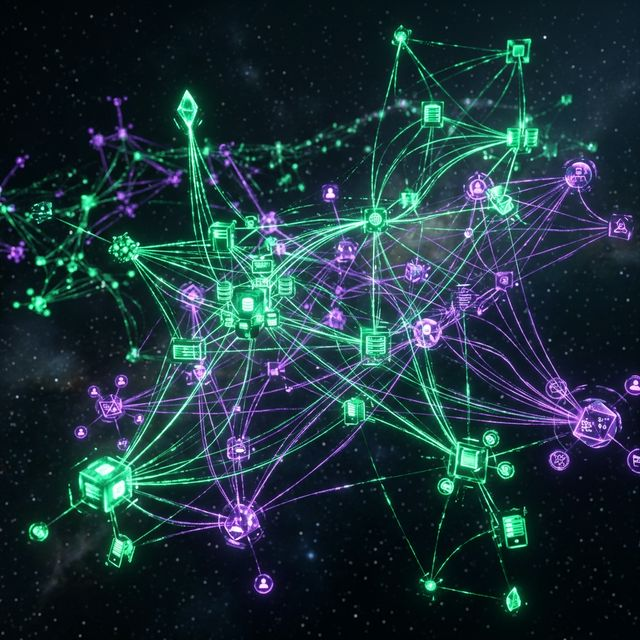
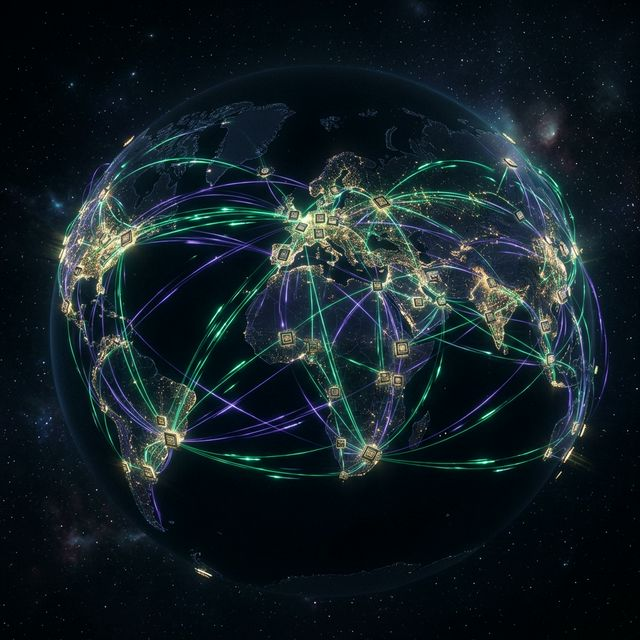
make the changes in the introduction section

diff --git a/docs/docs/intro/quickstart.md b/docs/docs/intro/quickstart.md
@@ -33,43 +33,41 @@ If you have a `.blend` file and want to use the network's decentralized GPUs to 
    Click the **"Client"** button on the top right of the navigation bar, and connect your Solana Phantom or Solflare wallet.
    *(Don't have a wallet? Read the [Wallet Setup Guide](./wallet-setup)).*
 
-2. **Contribute Funds:** 
-   You must have a minimum balance of computing credits (**RON**) to commission jobs. These act as the fuel for the network.
+2. **Fund your Account:** 
+   Ensure your account holds a sufficient balance of **RON** (Compute Credits). These credits are the economic fuel of every compute mission on the network.
 
-3. **Upload your Scene:** 
-   Navigate to the **Client Dashboard**, click "New Job." Here, you slice and encode your `.blend` file to our secure nodes. *(Read the [Job Management](../clients/job-management) guide to ensure your file is packed correctly).*
+3. **Submit your Mission:** 
+   Navigate to the **Management Portal** and create a new compute mission. The platform will stage your scene assets to the secure **Staging Fabric** and initialize the job allocation pipeline. *(Read the [Asset Preparation](../clients/scene-preparation) guide to ensure your project is correctly packaged).*
 
 4. **Retrieve Results:** 
-   Once the network consensus confirms your job is `COMPLETED`, the final mathematically-verified image will appear in your dashboard ready for download.
+   Once the network verifies your job has reached **FINALIZED** status, the completed frames become available for retrieval directly from your portal dashboard.
 
-<div style={{textAlign: 'center', margin: '30px 0'}}>
-  <img src="/img/artist-dashboard.png" alt="Artist Workflow" style={{borderRadius: '8px', border: '1px solid #10B981'}} />
-  <p style={{fontSize: '0.8rem', color: '#888'}}>*The RenderOnNodes Client Dashboard.*</p>
-</div>
+:::note[Screenshot Coming Soon]
+This section will include a screenshot of the live RenderOnNodes Management Portal. Please provide a screenshot of your dashboard so we can embed an accurate, up-to-date visual here.
+:::
 
   </TabItem>
   <TabItem value="provider" label="I want to Earn RON (Provider)">
 
 ### The Node Provider Journey
 
-If you have a Windows PC with an NVIDIA RTX or AMD Radeon GPU and want to earn tokens for processing other people's frames:
+If you have a Windows PC with an NVIDIA RTX or AMD Radeon GPU and want to earn tokens for processing other people's compute missions:
 
-1. **Download the Node Application:** 
-   Toggle the top navigation to **"Provider"**, and download the lightweight `BlendFarm.exe` desktop app.
+1. **Download the Execution Agent:** 
+   Toggle the top navigation to **"Provider"** and download the **RenderOnNodes Execution Agent** — a lightweight desktop application.
 
-2. **Link your Payout Address:** 
-   When you first open the app, you will be prompted to paste the public Solana address where you want to receive your earnings.
+2. **Link your Settlement Address:** 
+   When you first open the application, you will be prompted to connect your Solana wallet. This is the address where your earned **RON** will be automatically delivered.
 
-3. **Activate the Heartbeat:** 
-   Click **"Start Node"**. As long as `BlendFarm.exe` is running, it will constantly poll the network looking for incoming Artist jobs that match your exact hardware specifications.
+3. **Activate the Agent:** 
+   Click **"Start Agent"**. As long as the Execution Agent is running and your system passes performance validation, the network's **[Distribution Engine](../concepts/scheduler-and-queues)** will autonomously assign compute missions to your hardware.
 
-4. **Earn Tokens:** 
-   Once you process jobs and cross the Settlement Threshold (see [Settlement System](../concepts/settlement-system)), RON tokens are automatically airdropped into your wallet—gas free.
+4. **Earn Tokens Automatically:** 
+   Once your agent completes verified missions and crosses the **[Settlement Threshold](../concepts/settlement-system)**, RON tokens are automatically credited to your wallet — platform-managed, gas free.
 
-<div style={{textAlign: 'center', margin: '30px 0'}}>
-  <img src="/img/node-dashboard.png" alt="Provider Application" style={{borderRadius: '8px', border: '1px solid #8B5CF6'}} />
-  <p style={{fontSize: '0.8rem', color: '#888'}}>*The BlendFarm.exe Desktop Node Interface.*</p>
-</div>
+:::note[Screenshot Coming Soon]
+This section will include a screenshot of the live RenderOnNodes Node Agent interface. Please provide a screenshot of the agent running on your machine so we can embed an accurate, up-to-date visual here.
+:::
 
   </TabItem>
 </Tabs>

diff --git a/docs/docs/intro/what-is-renderonnodes.md b/docs/docs/intro/what-is-renderonnodes.md
@@ -23,16 +23,16 @@ These two realities create a massive economic inefficiency. **RenderOnNodes is b
 
 At its core, the platform operates a continuous matching engine:
 
-1. An **Artist** uploads a `.blend` scene file and specifies render requirements. The system locks the estimated job cost in escrow.
-2. The **Scheduler** evaluates all connected GPU nodes on the network and assigns the job to the best match based on hardware capability and trust score.
-3. The matched **Provider Node** downloads the file, executes the render in a sandboxed environment, and uploads the resulting frames.
-4. The **Escrow Contract** releases the payment to the Provider and delivers the completed frames to the Artist.
+1. A **Compute Client** stages their project assets to the platform's secure **Staging Fabric** and defines their compute parameters. The estimated cost in **RON** is immediately locked in escrow.
+2. The **Orchestration Layer** evaluates all connected Execution Agents on the network and dispatches the fragmented job to the highest-matching agent based on hardware capability and verified trust score.
+3. The matched **Execution Agent** retrieves the scoped job data, processes the render in a fully isolated compute environment, and returns the finalized artifacts.
+4. The **Strategic Settlement Ledger** automatically releases payment to the Agent and makes the completed frames available for retrieval by the Client.
 
-No Artist can avoid paying. No Provider can steal the payment without delivering the work. The smart contract enforces both sides simultaneously.
+No Client can avoid payment. No Agent can claim payment without delivering verified work. The settlement mechanism enforces both sides simultaneously at the protocol level.
 
 <div style={{textAlign: 'center', margin: '40px 0'}}>
-  <img src="/img/mesh-network.png" alt="The RenderOnNodes distributed GPU network" style={{borderRadius: '12px', boxShadow: '0 10px 30px rgba(16, 185, 129, 0.2)', maxWidth: '100%'}} />
-  <p style={{fontSize: '0.85rem', color: '#888', marginTop: '10px'}}>The RenderOnNodes network: a global mesh of independently operated GPU providers, orchestrated by a centralized backend scheduler and settled via the Solana blockchain.</p>
+  <img src="/img/mesh-network.png" alt="The RenderOnNodes distributed GPU node network" style={{borderRadius: '12px', boxShadow: '0 10px 30px rgba(16, 185, 129, 0.2)', maxWidth: '100%'}} />
+  <p style={{fontSize: '0.85rem', color: '#888', marginTop: '10px'}}>A global mesh of independently operated GPU Execution Agents — dispatched, orchestrated, and settled by the RenderOnNodes platform in real time.</p>
 </div>
 
 ---
@@ -49,7 +49,7 @@ A centralized farm has a fixed pool of machines. When demand spikes, you wait in
 Payment disputes between Artists and render farms are common in traditional pipelines. On RenderOnNodes, trust is not a requirement — it is enforced by code. The Escrow Smart Contract is the impartial arbiter: it releases funds only upon cryptographic verification of a successful render.
 
 ### Full File Ownership
-Your scene files are never stored on a centralized company server. They are chunked and transferred directly to encrypted, isolated object storage. Node Providers download only what is needed for execution and cannot access your asset library beyond the scope of the assigned job.
+Your scene files are staged to an encrypted, stateless buffer — never persisted on a centralized server. Execution Agents retrieve only the specific artifacts needed for their assigned fragment and operate in isolated compute environments that are destroyed immediately upon job completion.
 
 ---
 
@@ -61,7 +61,7 @@ RenderOnNodes operates as a two-sided marketplace. Every user on the platform is
 You represent the demand side of the marketplace. You create production-quality digital art, architectural visualizations, or animation sequences using **Blender (Cycles or Eevee)**. You upload your scenes to the platform, pay for compute in **RON** (our platform token), and retrieve the completed frames.
 
 ### Node Provider (Hardware Owners)
-You represent the supply side. You own one or more high-performance GPUs. You install the `BlendFarm.exe` Node Application on your Windows machine, connect it to your Solana wallet, and let it run in the background. As long as it is online and passes hardware validation, the network will assign render jobs to your machine and credit **RON** tokens to your wallet automatically upon settlement.
+You represent the supply side. You own one or more high-performance GPUs. You install the **RenderOnNodes Execution Agent** on your machine, connect it to your settlement wallet, and let it run in the background. As long as it is online and passes hardware validation, the network will assign compute missions to your machine and credit **RON** tokens to your wallet automatically upon settlement.
 
 ---
 